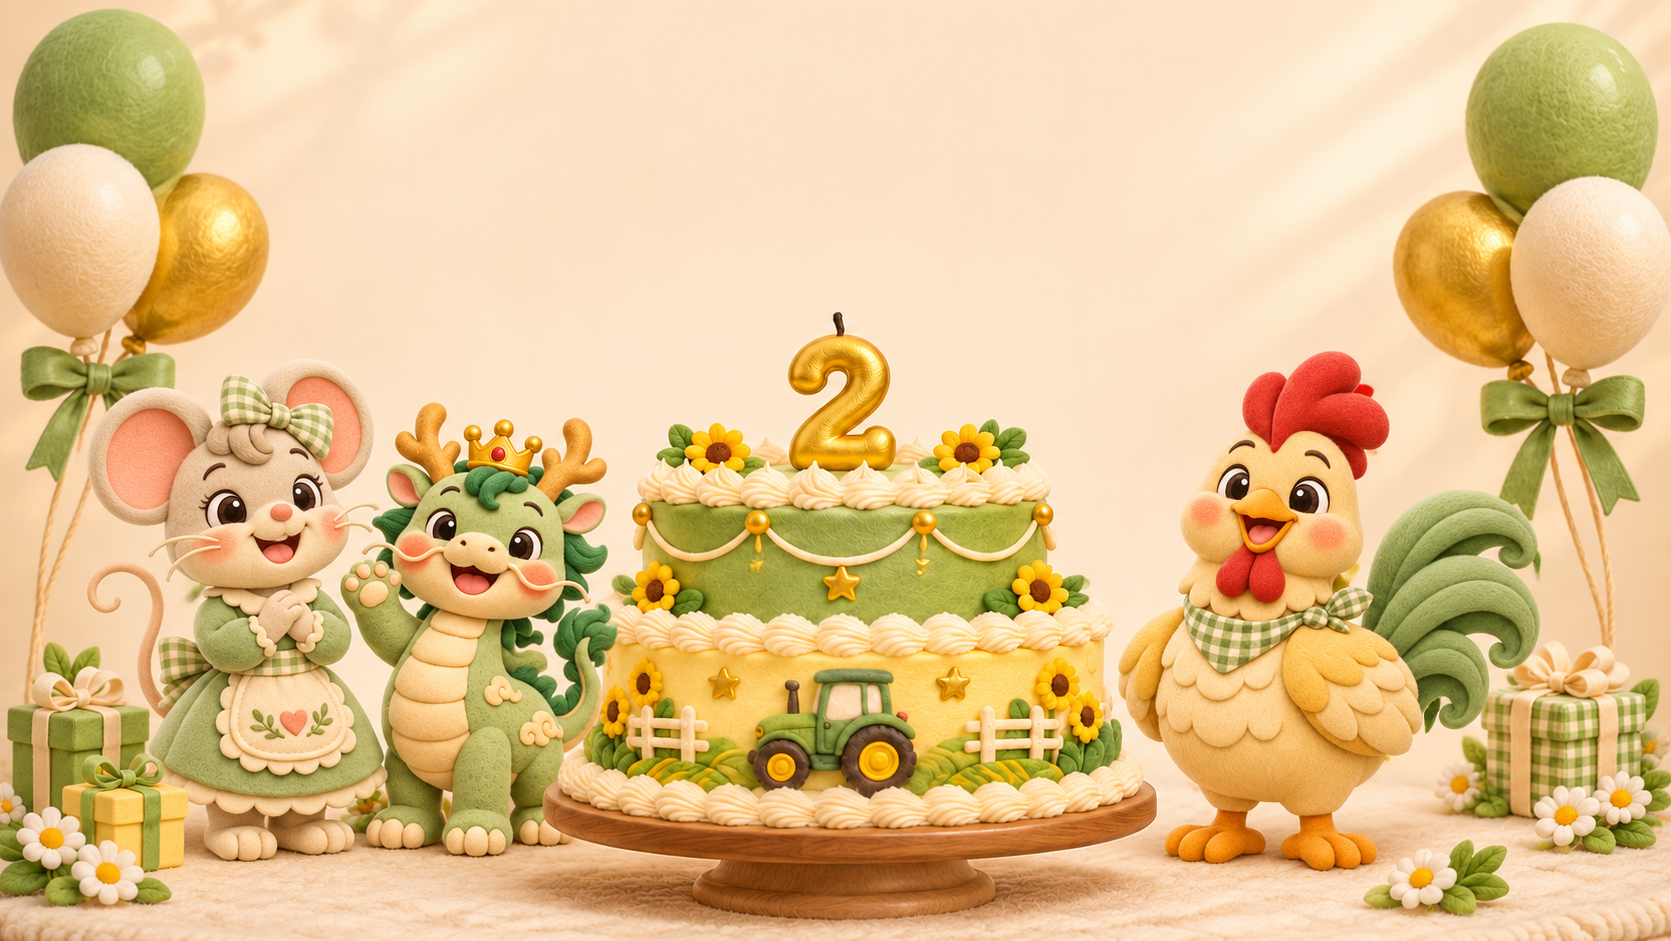
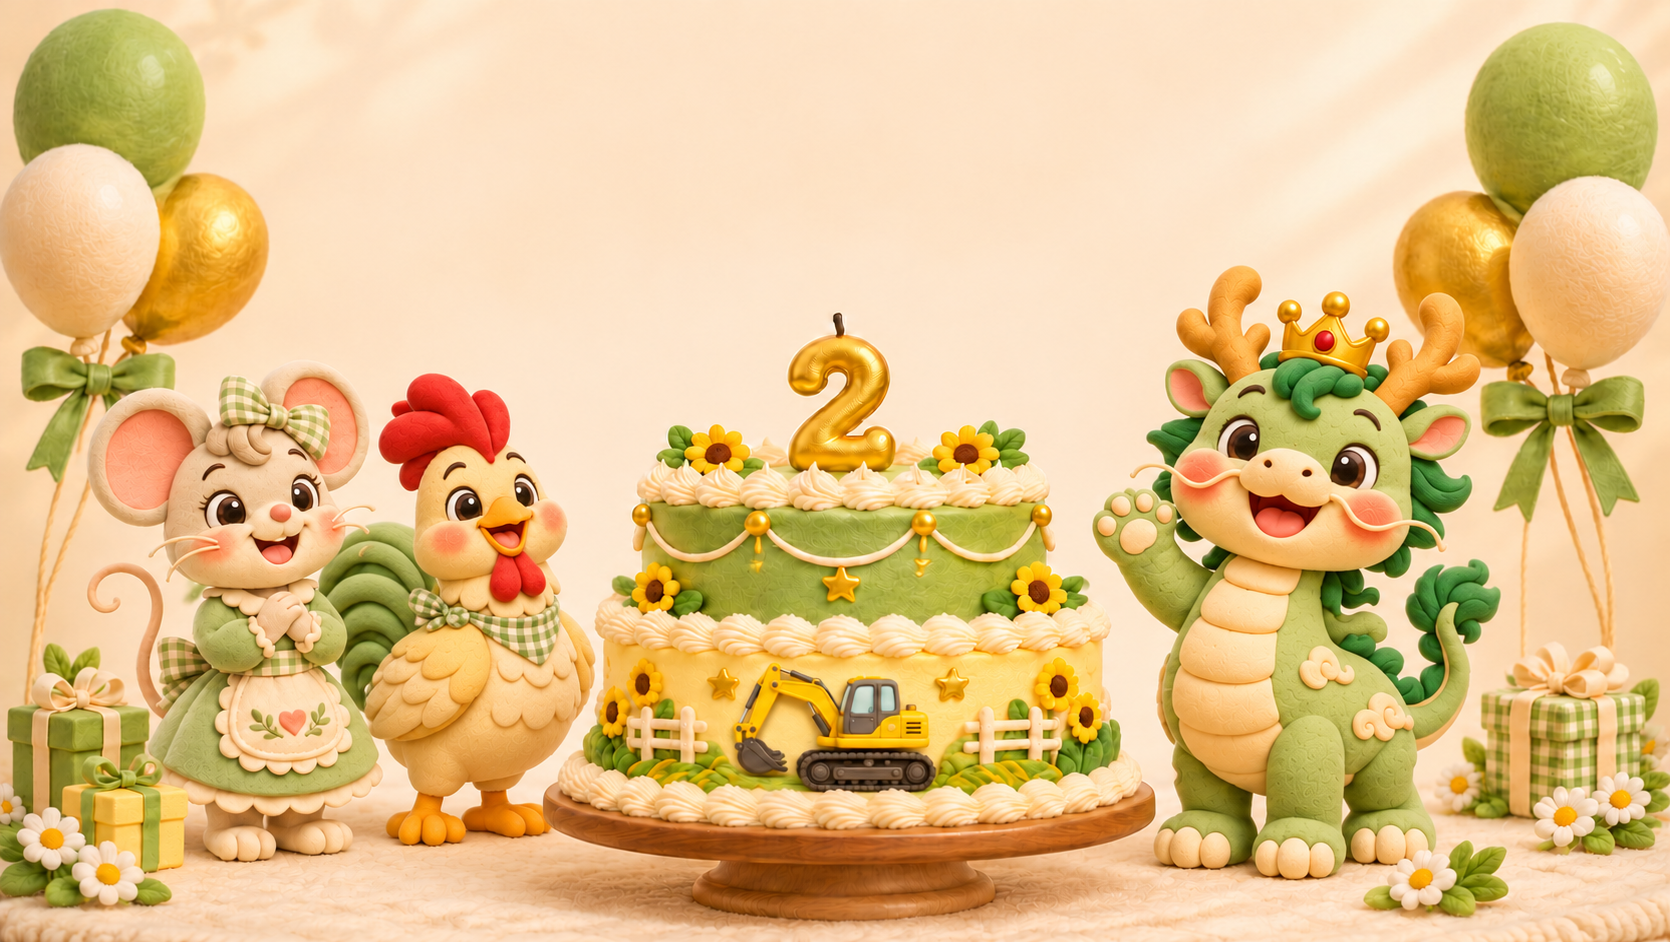
feat(theme): 更新生日派对为挖掘机乐园主题
替换原拖拉机主题的所有资源、音效与交互文案，新增小挖掘机专属素材；更新文档、页面UI、打包配置与测试脚本，统一项目主题。

diff --git a/index.html b/index.html
@@ -1,31 +1,31 @@
 <!doctype html>
 <html lang="zh-CN">
-<head><meta charset="utf-8"><meta name="viewport" content="width=device-width,initial-scale=1,viewport-fit=cover"><meta name="theme-color" content="#d5ecdf"><meta name="description" content="齐齐的生日派对：农场伙伴、成长相册和生日蛋糕，专为手机横屏与大屏展示准备。"><title>齐齐，生日快乐！</title><link rel="icon" href="assets/little-dragon.webp" type="image/webp"><link rel="stylesheet" href="styles.css"><script src="audio.js" defer></script><script src="voice.js" defer></script><script src="app.js" defer></script></head>
+<head><meta charset="utf-8"><meta name="viewport" content="width=device-width,initial-scale=1,viewport-fit=cover"><meta name="theme-color" content="#d5ecdf"><meta name="description" content="齐齐的生日派对：挖掘机和家人、成长相册和生日蛋糕，专为手机横屏与大屏展示准备。"><title>齐齐，生日快乐！</title><link rel="icon" href="assets/little-dragon.webp" type="image/webp"><link rel="stylesheet" href="styles.css"><script src="audio.js" defer></script><script src="voice.js" defer></script><script src="app.js" defer></script></head>
 <body>
 <main id="stage" tabindex="-1" aria-label="齐齐的生日派对">
-<section id="scene-home" class="scene" aria-label="快乐农场"><img fetchpriority="high" class="scene-art" src="assets/party-family-final.webp" alt="公鸡爸爸、鼠妈妈和小龙齐齐的生日小世界" width="1671" height="941" decoding="async"><h1 class="birthday-heading"><img class="title-art" src="assets/birthday-title.webp" alt="齐齐，生日快乐！" width="2172" height="724"></h1></section>
+<section id="scene-home" class="scene" aria-label="挖掘机乐园"><img fetchpriority="high" class="scene-art" src="assets/party-family-final.webp" alt="小龙齐齐驾驶黄色玩具挖掘机，公鸡爸爸与鼠妈妈在旁边庆祝" width="1671" height="941" decoding="async"><h1 class="birthday-heading"><img class="title-art" src="assets/birthday-title.webp" alt="齐齐，生日快乐！" width="2172" height="724"></h1></section>
 <section id="scene-album" class="scene" hidden aria-label="成长相册">
 <div class="album-bg"></div><div id="album-empty" class="empty"><img src="assets/little-dragon.webp" alt="小龙等你一起看照片"><h1 class="album-heading"><img class="title-art" src="assets/album-title.webp" alt="齐齐的成长时光" width="2172" height="724"></h1><p class="privacy-note">照片不上传，刷新后需重选。</p><button class="primary" id="empty-pick">选择成长照片</button></div>
 <figure id="photo-frame" hidden><img id="photo-img" alt=""><figcaption id="photo-caption"></figcaption></figure><div id="import-status" class="import-status" hidden role="status" aria-live="polite"><span id="import-label"></span><button id="cancel-import">取消导入</button></div><div id="album-count" class="album-count" hidden></div><div id="album-progress" hidden><i></i></div>
 </section>
 <section id="scene-cake" class="scene generated-scene" hidden aria-label="生日蛋糕">
-<div id="birthday-cake"><img class="scene-art" src="assets/cake-family.webp" alt="公鸡爸爸、鼠妈妈和小龙齐齐的生日小世界" width="1671" height="941" decoding="async"><img  class="flame-layer" src="assets/candle-flame.webp" alt="" aria-hidden="true"></div><h1 class="birthday-heading"><img class="title-art" src="assets/birthday-title.webp" alt="齐齐，生日快乐！" width="2172" height="724"></h1>
+<div id="birthday-cake"><img class="scene-art" src="assets/cake-family.webp" alt="小龙齐齐在蛋糕右侧挥手，鼠妈妈和公鸡爸爸在左侧陪伴庆祝" width="1671" height="941" decoding="async"><img  class="flame-layer" src="assets/candle-flame.webp" alt="" aria-hidden="true"></div><h1 class="birthday-heading"><img class="title-art" src="assets/birthday-title.webp" alt="齐齐，生日快乐！" width="2172" height="724"></h1>
 <h2 id="cake-title" class="sr-only" aria-live="polite">齐齐，生日快乐！</h2><p id="lyric" class="scene-note" aria-live="polite">许个愿吧</p>
 </section>
 <section id="scene-game" class="scene" hidden aria-label="和生肖家人玩">
 <div class="scene-heading"><h1><img class="title-art" src="assets/family-title.webp" alt="一家人，一起玩！" width="2172" height="724"></h1><div id="hello" aria-live="polite">点点小伙伴</div></div>
-<div class="friends"><button data-friend="dragon" aria-label="和小龙打招呼"><img src="assets/little-dragon.webp" alt=""><span>小龙齐齐</span></button><button data-friend="mouse" aria-label="和鼠妈妈打招呼"><img loading="lazy" src="assets/little-mouse.webp" alt=""><span>鼠妈妈</span></button><button data-friend="rooster" aria-label="和公鸡爸爸打招呼"><img loading="lazy" src="assets/little-rooster.webp" alt=""><span>公鸡爸爸</span></button><button data-friend="tractor" aria-label="和拖拉机打招呼"><img loading="lazy" src="assets/red-tractor.webp" alt=""><span>拖拉机</span></button></div>
+<div class="friends"><button data-friend="dragon" aria-label="和小龙打招呼"><img src="assets/little-dragon.webp" alt=""><span>小龙齐齐</span></button><button data-friend="mouse" aria-label="和鼠妈妈打招呼"><img loading="lazy" src="assets/little-mouse.webp" alt=""><span>鼠妈妈</span></button><button data-friend="rooster" aria-label="和公鸡爸爸打招呼"><img loading="lazy" src="assets/little-rooster.webp" alt=""><span>公鸡爸爸</span></button><button data-friend="excavator" aria-label="和挖掘机打招呼"><img loading="lazy" src="assets/little-excavator.webp" alt=""><span>挖掘机</span></button></div>
 <div id="bubbles" aria-hidden="true"></div>
 </section><div id="confetti" aria-hidden="true"></div>
 </main>
 <p class="portrait-note">横过手机，画面更好看<br>用屏幕镜像连接电视</p>
 <nav id="controls" aria-label="生日派对控制">
-<div class="row tabs" aria-label="选择场景"><button data-scene="home" aria-pressed="true">快乐农场</button><button data-scene="album" aria-pressed="false">成长相册</button><button data-scene="cake" aria-pressed="false">生日蛋糕</button><button data-scene="game" aria-pressed="false">点点玩</button></div>
+<div class="row tabs" aria-label="选择场景"><button data-scene="home" aria-pressed="true">挖掘机乐园</button><button data-scene="album" aria-pressed="false">成长相册</button><button data-scene="cake" aria-pressed="false">生日蛋糕</button><button data-scene="game" aria-pressed="false">点点玩</button></div>
 <div class="row" id="album-tools" hidden><button id="pick">选择照片</button><button id="previous" disabled aria-label="上一张照片">← 上一张</button><button id="album-toggle" disabled>播放相册</button><button id="next" disabled aria-label="下一张照片">下一张 →</button></div>
 <div class="row" id="cake-tools" hidden><button id="sing">♫ 一起唱生日歌</button><button id="blow">吹灭蜡烛</button><button id="relight" hidden>重新点亮</button></div>
 <div class="row"><button id="child-play">给齐齐玩</button><button id="fullscreen" class="primary" aria-pressed="false">全屏展示</button><button id="celebrate">撒花庆祝</button><button id="sound" aria-pressed="false">声音：关</button><button id="photo" aria-pressed="false">合影模式</button><button id="hide">隐藏按钮</button></div>
 <details id="settings"><summary>更多设置与备用图</summary>
-<div class="row"><button id="pause" aria-pressed="false">暂停动画</button><button id="awake" aria-pressed="false">保持屏幕常亮</button><a href="assets/birthday-background-4k.png" download="齐齐生日农场-4K.png">农场备用图</a><a href="assets/birthday-cake-4k.png" download="齐齐生日蛋糕-4K.png">蛋糕备用图</a><a href="little-tractor-party-offline.zip" download>完整离线包</a></div>
+<div class="row"><button id="pause" aria-pressed="false">暂停动画</button><button id="awake" aria-pressed="false">保持屏幕常亮</button><a href="assets/birthday-background-4k.png" download="齐齐挖掘机派对-4K.png">派对备用图</a><a href="assets/birthday-cake-4k.png" download="齐齐生日蛋糕-4K.png">蛋糕备用图</a><a href="little-tractor-party-offline.zip" download>完整离线包</a></div>
 <div class="row album-settings" id="album-settings" hidden><label>每张停留 <select id="duration"><option value="5">5 秒</option><option value="8" selected>8 秒</option><option value="12">12 秒</option></select></label><button id="clear-music" disabled>移除音乐</button><button id="pick-music">选择背景音乐</button><button id="music-toggle" disabled>播放音乐</button><button id="clear-photos" disabled>清空照片</button><button id="pick-folder">选择文件夹</button><label><input id="captions" type="checkbox" checked>显示文件名字幕</label></div>
 <div class="voice-settings">
 <label><input id="spoken" type="checkbox" checked> 角色说话</label><span id="voice-status"></span>

diff --git a/app.js b/app.js
@@ -38,7 +38,7 @@ function selectScene(next){if(!modes.includes(next)||next===mode)return;stopSong
  document.querySelectorAll('[data-scene]').forEach(el=>el.setAttribute('aria-pressed',String(el.dataset.scene===mode)));
  modes.forEach(name=>$('scene-'+name).hidden=name!==mode);
  $('album-tools').hidden=mode!=='album';$('album-settings').hidden=mode!=='album';$('cake-tools').hidden=mode!=='cake';$('mic-tools').hidden=mode!=='cake';
- stage.setAttribute('aria-label',({home:'齐齐的小龙快乐农场',album:'齐齐的成长相册',cake:'齐齐的生日蛋糕',game:'点一点，和爸爸妈妈打招呼'})[mode]);
+ stage.setAttribute('aria-label',({home:'齐齐的小龙挖掘机乐园',album:'齐齐的成长相册',cake:'齐齐的生日蛋糕',game:'点一点，和爸爸妈妈打招呼'})[mode]);
  if(mode==='album')renderPhoto();if(mode==='cake')updateCake();syncMusic();
 }
 document.querySelectorAll('[data-scene]').forEach(el=>el.onclick=()=>selectScene(el.dataset.scene));
@@ -102,7 +102,7 @@ for(const [id,kind] of [['pick-mom','mouse'],['pick-dad','rooster'],['pick-child
 $('voice-file').onchange=event=>{const file=event.target.files[0];event.target.value='';if(file&&voice.setClip(voiceTarget,file))tell('录音已准备。开启声音后，点对应角色即可听到；每次最多播放 12 秒。');};
 $('clear-voices').onclick=()=>voice.clearClips();
 // 无分数、无失败的因果互动，短音效节流，图形与文字同时回应。
-const greetings={dragon:'小龙说：齐齐，生日快乐！',mouse:'鼠妈妈说：齐齐，妈妈爱你！',rooster:'公鸡爸爸说：嘟嘟，带齐齐出发！',tractor:'拖拉机说：嘟嘟，快乐出发！'};
+const greetings={dragon:'小龙说：齐齐，生日快乐！',mouse:'鼠妈妈说：齐齐，妈妈爱你！',rooster:'公鸡爸爸说：齐齐，爸爸陪你玩！',excavator:'挖掘机说：嘟嘟，快乐出发！'};
 let lastGreeting=0;
 document.querySelectorAll('[data-friend]').forEach(button=>button.onclick=()=>{if(frozen())return;const now=performance.now();if(now-lastGreeting<450)return;lastGreeting=now;const kind=button.dataset.friend;$('hello').textContent=greetings[kind];clearTimeout(helloTimer);helloTimer=setTimeout(()=>$('hello').textContent='点点小伙伴',4500);button.classList.remove('greet');void button.offsetWidth;button.classList.add('greet');audio.stopEffects();const greeting=++greetingRun;voice.speak(kind,greetings[kind].replace(/^[^：]*：/, '')).then(spoken=>{if(!spoken&&greeting===greetingRun&&mode==='game'&&!frozen())audio.effect(kind).catch(()=>{});});if(!reduced.matches){const star=document.createElement('span');star.className='bubble';star.textContent=kind==='dragon'?'♥':'✦';star.style.left=`${18+Array.from(button.parentNode.children).indexOf(button)*22}%`;star.style.top='43%';$('bubbles').append(star);setTimeout(()=>star.remove(),1900);if($('bubbles').children.length>8)$('bubbles').firstElementChild.remove();}});
 // 展示工具：全屏和屏幕常亮均有失败回退。

diff --git a/audio.js b/audio.js
@@ -26,7 +26,7 @@ window.PartyAudio = (() => {
  async function effect(kind){if(!enabled)return;stopEffects();const run=effectId;await ready();if(run!==effectId||!enabled||document.hidden)return;effectBus=context.createGain();effectBus.connect(bus);const t=context.currentTime+.02;
   if(kind==='mouse'){bell(notes.E5,t,.5,.18,effectBus);bell(notes.G5,t+.2,.6,.16,effectBus);}
   else if(kind==='rooster'){tone(560,t,.16,.16,'sine',effectBus,700);tone(700,t+.22,.25,.14,'sine',effectBus,620);}
-  else if(kind==='tractor'){for(let i=0;i<4;i++)tone(95,t+i*.18,.12,.18,'triangle',effectBus,80);}
+  else if(kind==='excavator'){for(let i=0;i<4;i++)tone(95,t+i*.18,.12,.18,'triangle',effectBus,80);}
   else {['C5','E5','G5'].forEach((n,i)=>bell(notes[n],t+i*.15,.8,.18,effectBus));}
  }
  async function suspend(){stopEffects();if(context&&context.state==='running')await context.suspend();}

diff --git a/scripts/package_site.py b/scripts/package_site.py
@@ -4,7 +4,7 @@ from zipfile import ZipFile, ZIP_DEFLATED
 import shutil
 ROOT=Path(__file__).resolve().parent.parent
 PAGES=['index.html','styles.css','app.js','audio.js','voice.js','.nojekyll']
-ASSETS=['little-dragon.webp','little-mouse.webp','little-rooster.webp','red-tractor.webp','birthday-title.webp','album-title.webp','family-title.webp','candle-flame.webp','party-family-final.webp','cake-family.webp','play-sky.webp','birthday-background-4k.png','birthday-cake-4k.png']
+ASSETS=['little-dragon.webp','little-mouse.webp','little-rooster.webp','little-excavator.webp','birthday-title.webp','album-title.webp','family-title.webp','candle-flame.webp','party-family-final.webp','cake-family.webp','play-sky.webp','birthday-background-4k.png','birthday-cake-4k.png']
 FILES=PAGES+['assets/'+name for name in ASSETS]
 if __name__=='__main__':
  dist=ROOT/'dist'

diff --git a/README.md b/README.md
@@ -1,12 +1,12 @@
-# 齐齐的生日派对 🚜🐲
+# 齐齐的生日派对 🐲
 
-一个入口、一套生图视觉，集合生日迎宾、成长相册、生日歌、吹蜡烛、亲子互动和合影。打开 `index.html` 就进入生日主画面，不再需要选择版本。
+与家中挖掘机主题布置一致：一个入口、一套生图视觉，集合生日迎宾、成长相册、生日歌、吹蜡烛、亲子互动和合影。打开 `index.html` 就进入生日主画面，不再需要选择版本。
 
 ## 已确认的家庭设定
 
 - 展示名：**齐齐**，两周岁，生肖龙；戴皇冠的友善中国小龙代表宝宝。
 - 妈妈生肖鼠：奶油色小老鼠、绿色裙子和格纹蝴蝶结。
-- 爸爸生肖鸡：金黄色公鸡、红鸡冠、绿色尾羽；**爸爸开拖拉机，妈妈和齐齐坐在拖斗里**。
+- 爸爸生肖鸡：金黄色公鸡、红鸡冠、绿色尾羽；**齐齐驾驶黄色玩具履带挖掘机，爸爸妈妈在旁边陪伴庆祝**。
 - 主标题：**齐齐，生日快乐！**，使用透明底生图艺术字，带轻柔入场和缓慢起伏动效。相册与亲子互动标题也使用同风格生图艺术字；年龄只通过画面数字与蜡烛表达。
 
 全站插画、角色、艺术字、图标和独立火苗均来自生图 PNG，网页使用保留透明度的 WebP 减少加载体积。旧的三个版本目录、版本选择页、全部 SVG 文件和矢量插画生成脚本已移除。按钮、歌词、文件名字幕与操作提示使用网页文字，便于阅读和实时更新。
@@ -17,7 +17,7 @@
 2. 点击主操作栏的 **「全屏展示」**。支持的浏览器进入全屏后会隐藏操作栏；轻点空白处找回，再点「退出全屏」。
 3. 需要电视展示时，用手机系统的屏幕镜像连接电视；网页本身不发起投屏。
 4. 不支持网页全屏时会提示横屏、收起浏览器工具栏并使用系统屏幕镜像。画面始终保持 16:9，不裁切主体。
-5. 「更多设置与备用图」中可以开启常亮，或提前保存农场、蛋糕备用图。
+5. 「更多设置与备用图」中可以开启常亮，或提前保存派对、蛋糕备用图。
 
 全屏通过用户点击调用标准 Fullscreen API，并兼容支持 WebKit 全屏入口的浏览器。不同手机系统可能不开放网页全屏；不能保证所有设备都能隐藏系统和浏览器工具栏。常亮通常需要 HTTPS，失败时请在系统设置中暂时延长自动锁屏时间。
 
@@ -25,10 +25,10 @@
 
 | 场景 | 功能 |
 | --- | --- |
-| 快乐农场 | 公鸡爸爸开绿色拖拉机，鼠妈妈和小龙齐齐一起庆祝；大号生图艺术字 |
+| 挖掘机乐园 | 小龙齐齐开黄色玩具挖掘机，公鸡爸爸与鼠妈妈在旁边庆祝；大号生图艺术字 |
 | 成长相册 | 本地选图、自动循环、上一张/下一张、字幕开关、可选背景音乐 |
-| 生日蛋糕 | 一家三口围着蛋糕；生日歌、同步歌词、手动吹灭与重新点亮 |
-| 点点玩 | 点击小龙齐齐、鼠妈妈、公鸡爸爸和小拖拉机，获得招呼文字与轻柔反馈 |
+| 生日蛋糕 | 齐齐在蛋糕右侧独立站立，爸爸妈妈在左侧陪伴；生日歌、同步歌词、手动吹灭与重新点亮 |
+| 点点玩 | 点击小龙齐齐、鼠妈妈、公鸡爸爸和小挖掘机，获得招呼文字与轻柔反馈 |
 
 「撒花庆祝」可在任一场景手动触发；「合影模式」暂停动画、相册及音频，清除彩纸并隐藏按钮。轻点空白处只恢复操作栏，退出合影才恢复之前的展示状态。主插画保持稳定，不再模拟图片内部车轮或风车转动；动效用于艺术字入场与轻轻起伏、火苗、彩纸和互动角色；系统减少动态效果、合影或暂停时停止。
 
@@ -83,7 +83,7 @@ scripts/package_site.py     单一版本白名单打包
 .github/workflows/pages.yml GitHub Pages 检查与发布工作流
 ```
 
-图片通过内置 `image_gen` 生成和编辑。提示词核心是“温暖的 3D 黏土/毛毡生日农场，公鸡爸爸开车，鼠妈妈和戴皇冠的中国小龙齐齐坐拖斗，金色数字 2，顶部留白叠加精确中文艺术字”。完整提示词与中间风格迭代记录保存在 `scripts/image-prompts.json`，发布包只包含最终素材。
+图片通过内置 `image_gen` 生成和编辑。提示词核心是“温暖的 3D 黏土/毛毡生日挖掘机乐园，戴皇冠的中国小龙齐齐驾驶黄色玩具履带挖掘机，公鸡爸爸和鼠妈妈在旁边庆祝，金色数字 2，顶部留白叠加精确中文艺术字”。完整提示词与中间风格迭代记录保存在 `scripts/image-prompts.json`，发布包只包含最终素材。
 
 运行检查和打包：
 
